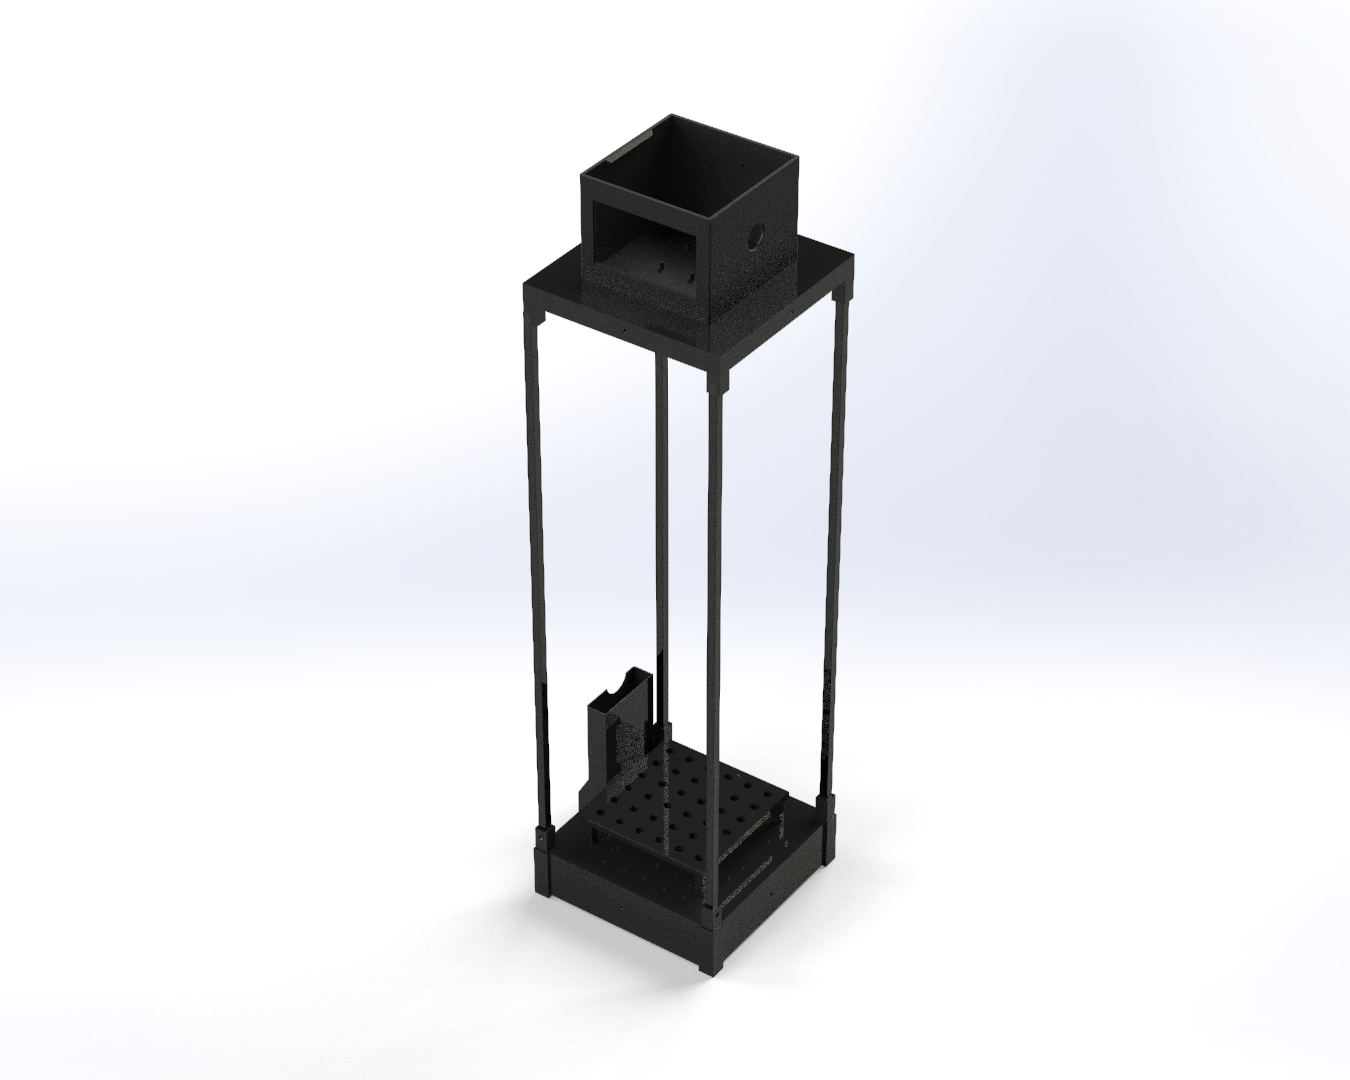
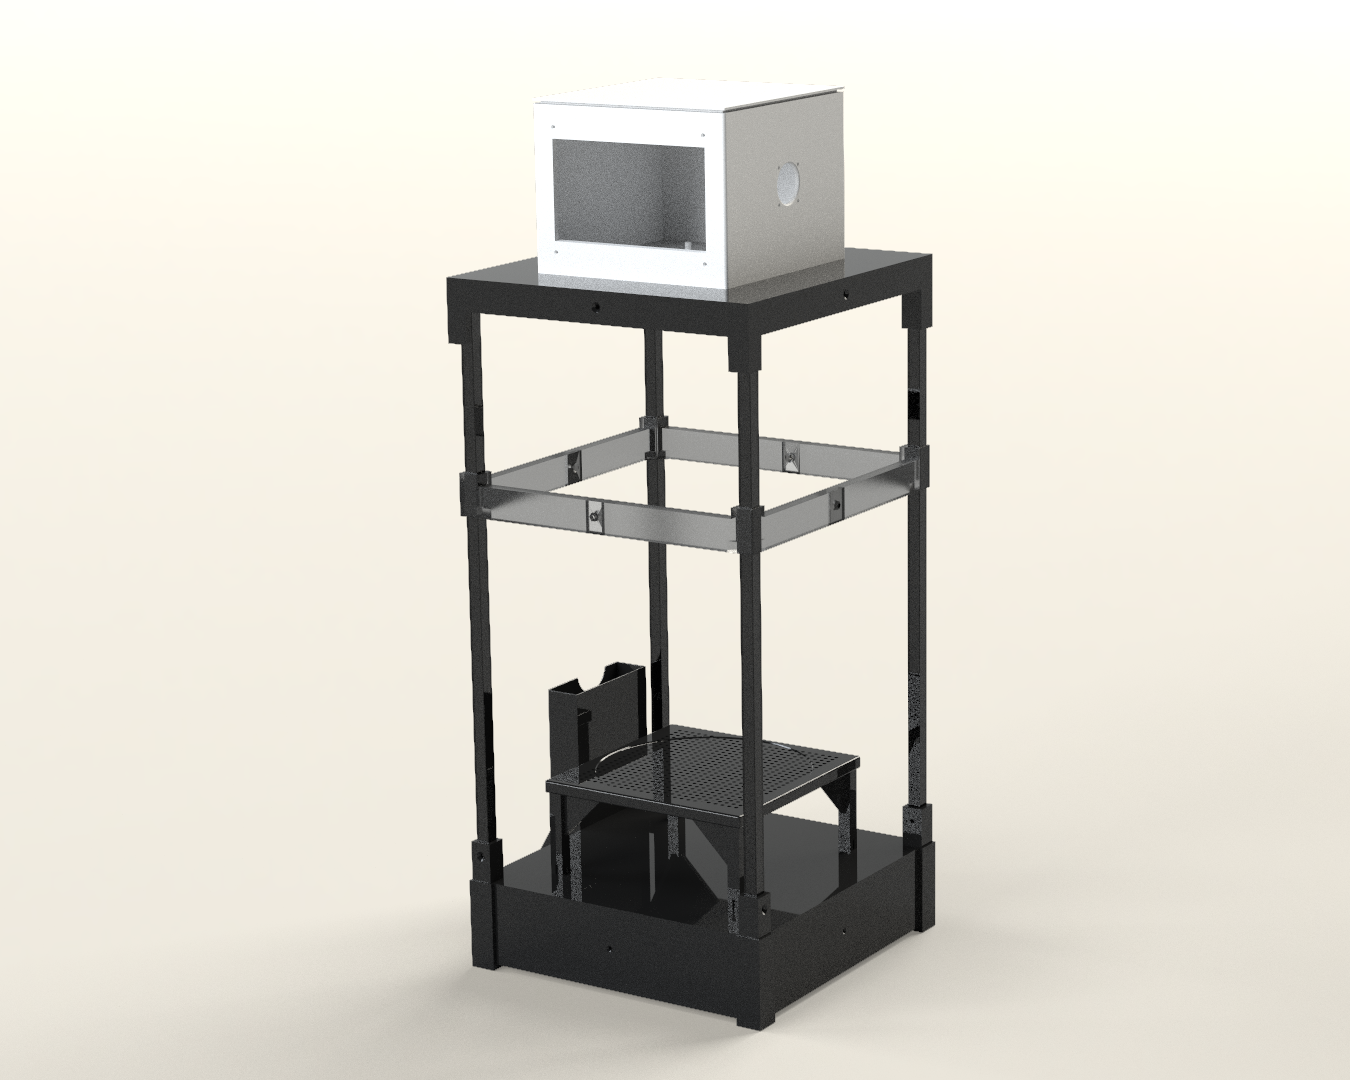
Updated capstone project photos and description.

diff --git a/assets/assets.ts b/assets/assets.ts
@@ -103,17 +103,17 @@ export const projectData: Project[] = [
         description: 'A machine learning pipeline that classifies resistor images by ohm value and wattage using computer vision and SVM.',
         bgImage: ['/ResistorClassification1.png'],
         github: 'https://github.com/nolantuttle/ResistorClassification',
-        summary: 'ResistorClassification is an end-to-end ML pipeline that identifies resistor values from raw images. Images are preprocessed using OpenCV — converted to HSV color space and analyzed via hue, saturation, and brightness histograms combined with color moments — to extract a rich feature vector per image. A multi-output linear SVM then classifies both resistance (37 classes) and wattage (5 classes) simultaneously, achieving 67% and 80% accuracy respectively across ~2,800 images. The model is deployed as a Flask web application allowing users to upload a resistor image and receive a prediction in real time',
+        summary: 'ResistorClassification is an end-to-end ML pipeline that identifies resistor values from raw images. Images are preprocessed using OpenCV — converted to HSV color space and analyzed via hue, saturation, and brightness histograms combined with color moments to extract a rich feature vector per image. A multi-output linear SVM then classifies both resistance (37 classes) and wattage (5 classes) simultaneously, achieving 67% and 80% accuracy respectively across ~2,800 images. The model is deployed as a Flask web application allowing users to upload a resistor image and receive a prediction in real time',
         tech_stack: 'Python, scikit-learn, OpenCV, Flask, NumPy, SciPy',
         status: 'In Development'
     },
     {
         title: 'PhytoPi',
         description: 'IoT-based controlled environment for plant growth. (Currently in development).',
-        bgImage: ['/PhytoPi.png'],
+        bgImage: ['/PhytoPi.png', '/PhytoPi2.png', '/PhytoPi3.png'],
         summary: 'PhytoPi combines a Raspberry Pi-based sensor controller with a modern Flutter dashboard to create a complete plant monitoring ecosystem. The system tracks temperature, humidity, soil moisture, and water levels, while providing real-time data visualization, automated alerts, and AI-powered insights through a responsive web and mobile interface.',
         tech_stack: 'Flutter, Dart, C, Python, SQLite, Supabase',
-        status: 'In Development'
+        status: 'Complete - Presentation at the GCU Capstone Showcase April 8th, 2026'
     },
     {
         title: 'DE10 Audio Memory Game',

diff --git a/app/components/Projects.tsx b/app/components/Projects.tsx
@@ -77,15 +77,12 @@ const Projects = () => {
 
                         </div>
 
-                        <div className='w-1/2 flex-shrink-0 rounded-lg overflow-hidden flex flex-col gap-2'>
-                            {Array.isArray(selectedProject.bgImage)
-                                ? selectedProject.bgImage.map((img, index) => (
-                                    <img key={index} src={img} alt={selectedProject.title}
-                                        className='w-full h-1/2 object-contain rounded-lg' />
-                                ))
-                                : <img src={selectedProject.bgImage} alt={selectedProject.title}
-                                    className='w-full h-full object-cover rounded-lg' />
-                            }
+                        <div className='w-1/2 flex-shrink-0 flex flex-col gap-2 overflow-hidden'>
+                            {selectedProject.bgImage.map((img, index) => (
+                                <img key={index} src={img} alt={selectedProject.title}
+                                    className={`w-full object-contain rounded-lg`}
+                                    style={{ height: `${100 / selectedProject.bgImage.length}%` }} />
+                            ))}
                         </div>
 
                         <button onClick={() => setSelectedProject(null)}
